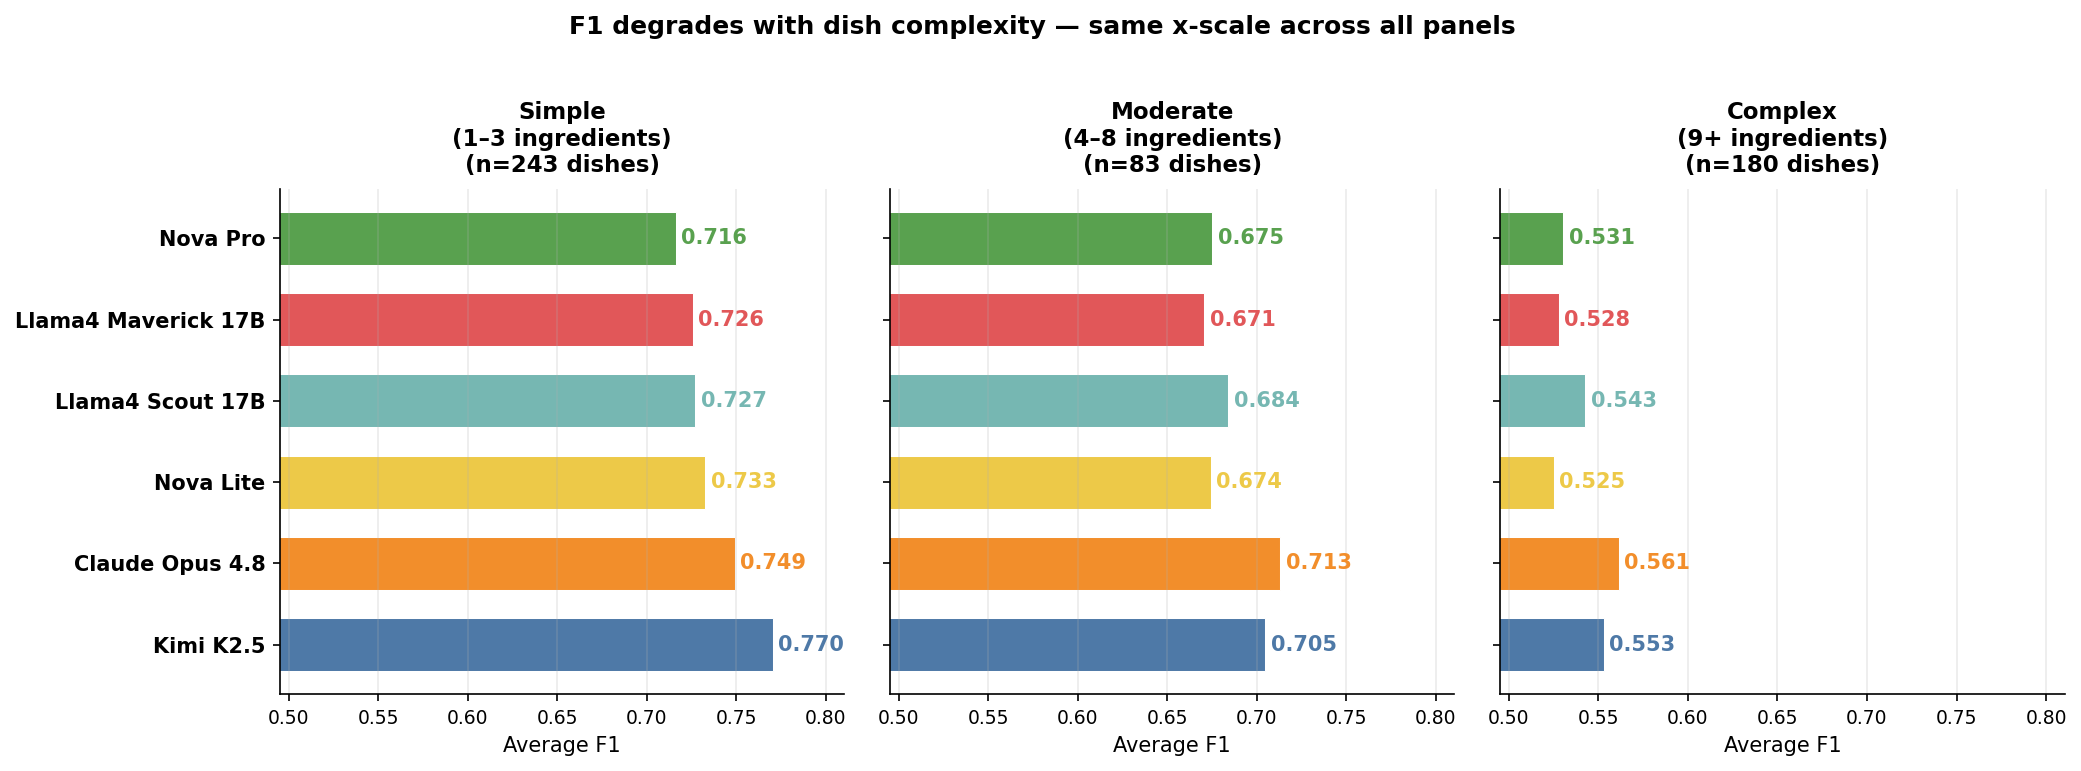
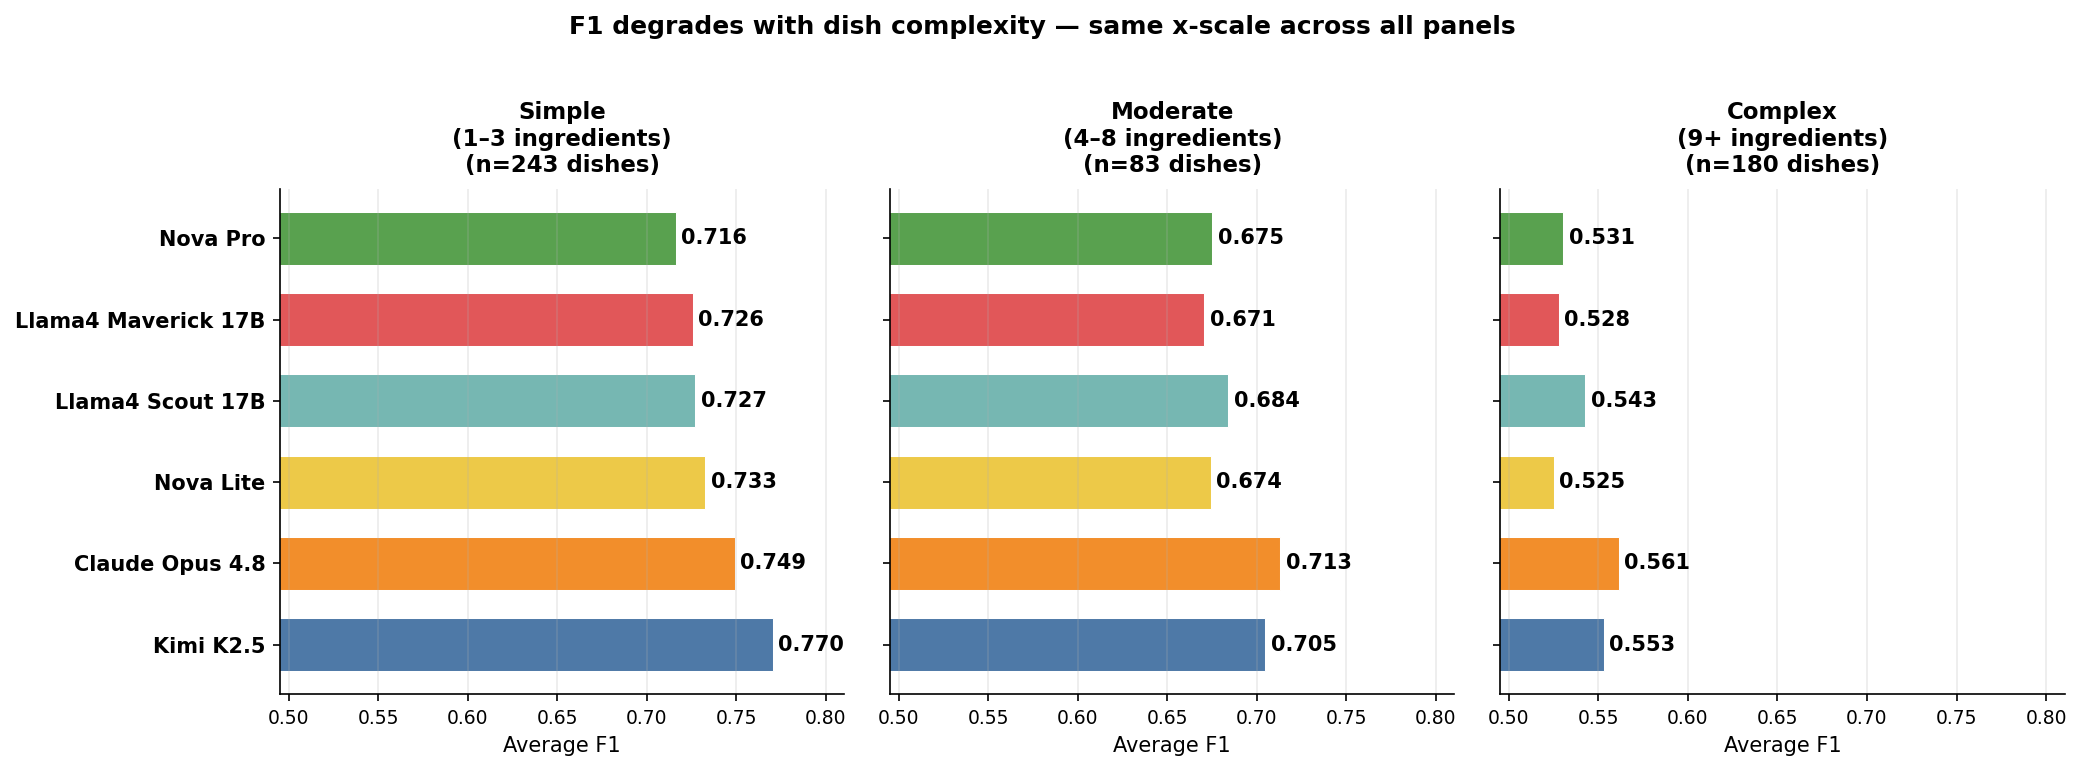
Fig5 value labels black; fig6 colors darkened
fig5 (D3 + matplotlib): F1 value labels at bar ends were in model
color — changed to black (#111827 / black)

fig6 (D3 + matplotlib): vivid green/red/blue/amber swapped for
dark muted variants:
  #059669 → #065F46  (emerald → dark emerald)
  #DC2626 → #7F1D1D  (red → dark crimson)
  #1D4ED8 → #1E3A8A  (blue → navy)
  #D97706 → #92400E  (amber → dark amber-brown)

diff --git a/eval/plots/fig05_complexity.html b/eval/plots/fig05_complexity.html
@@ -70,11 +70,11 @@ panels.forEach((panel,pi)=>{
    .attr("width",m=>x(m.f1)).attr("height",y.bandwidth())
    .attr("fill",m=>m.color).attr("rx",4);
 
-  // F1 label at bar right — bold, model color
+  // F1 label at bar right — bold, black
   g.selectAll(".lbl").data(panel.models).join("text")
    .attr("x",m=>x(m.f1)+9).attr("y",m=>y(m.model)+y.bandwidth()/2)
    .attr("dy","0.35em").attr("font-size",13).attr("font-weight","800")
-   .attr("fill",m=>m.color).text(m=>m.f1.toFixed(3));
+   .attr("fill","#111827").text(m=>m.f1.toFixed(3));
 
   // Y axis: model names in black
   const yAx=g.append("g").call(d3.axisLeft(y).tickSize(0).tickPadding(10));

diff --git a/eval/plots/fig06_buckets.html b/eval/plots/fig06_buckets.html
@@ -27,8 +27,8 @@ text{font-family:'Inter',system-ui,sans-serif}
 </head>
 <body><script>
 
-const data = [{"model": "Llama4 Maverick", "segs": [{"label": "Perfect (100%)", "count": 336, "pct": 66.4, "color": "#059669"}, {"label": "Good (75\u201399%)", "count": 53, "pct": 10.5, "color": "#1D4ED8"}, {"label": "Fair (50\u201374%)", "count": 71, "pct": 14.0, "color": "#D97706"}, {"label": "Poor  (<50%)", "count": 46, "pct": 9.1, "color": "#DC2626"}], "perfect_pct": 66.4}, {"model": "Kimi K2.5", "segs": [{"label": "Perfect (100%)", "count": 333, "pct": 65.8, "color": "#059669"}, {"label": "Good (75\u201399%)", "count": 65, "pct": 12.8, "color": "#1D4ED8"}, {"label": "Fair (50\u201374%)", "count": 63, "pct": 12.5, "color": "#D97706"}, {"label": "Poor  (<50%)", "count": 45, "pct": 8.9, "color": "#DC2626"}], "perfect_pct": 65.8}, {"model": "Nova Lite", "segs": [{"label": "Perfect (100%)", "count": 330, "pct": 65.2, "color": "#059669"}, {"label": "Good (75\u201399%)", "count": 54, "pct": 10.7, "color": "#1D4ED8"}, {"label": "Fair (50\u201374%)", "count": 68, "pct": 13.4, "color": "#D97706"}, {"label": "Poor  (<50%)", "count": 54, "pct": 10.7, "color": "#DC2626"}], "perfect_pct": 65.2}, {"model": "Llama4 Scout", "segs": [{"label": "Perfect (100%)", "count": 328, "pct": 64.7, "color": "#059669"}, {"label": "Good (75\u201399%)", "count": 58, "pct": 11.4, "color": "#1D4ED8"}, {"label": "Fair (50\u201374%)", "count": 77, "pct": 15.2, "color": "#D97706"}, {"label": "Poor  (<50%)", "count": 44, "pct": 8.7, "color": "#DC2626"}], "perfect_pct": 64.7}, {"model": "Nova Pro", "segs": [{"label": "Perfect (100%)", "count": 312, "pct": 61.5, "color": "#059669"}, {"label": "Good (75\u201399%)", "count": 58, "pct": 11.4, "color": "#1D4ED8"}, {"label": "Fair (50\u201374%)", "count": 84, "pct": 16.6, "color": "#D97706"}, {"label": "Poor  (<50%)", "count": 53, "pct": 10.5, "color": "#DC2626"}], "perfect_pct": 61.5}, {"model": "Claude Opus 4.8", "segs": [{"label": "Perfect (100%)", "count": 294, "pct": 58.0, "color": "#059669"}, {"label": "Good (75\u201399%)", "count": 86, "pct": 17.0, "color": "#1D4ED8"}, {"label": "Fair (50\u201374%)", "count": 80, "pct": 15.8, "color": "#D97706"}, {"label": "Poor  (<50%)", "count": 47, "pct": 9.3, "color": "#DC2626"}], "perfect_pct": 58.0}];
-const BUCKETS = [{"label": "Perfect (100%)", "color": "#059669"}, {"label": "Good (75\u201399%)", "color": "#1D4ED8"}, {"label": "Fair (50\u201374%)", "color": "#D97706"}, {"label": "Poor  (<50%)", "color": "#DC2626"}];
+const data = [{"model": "Llama4 Maverick", "segs": [{"label": "Perfect (100%)", "count": 336, "pct": 66.4, "color": "#065F46"}, {"label": "Good (75\u201399%)", "count": 53, "pct": 10.5, "color": "#1E3A8A"}, {"label": "Fair (50\u201374%)", "count": 71, "pct": 14.0, "color": "#92400E"}, {"label": "Poor  (<50%)", "count": 46, "pct": 9.1, "color": "#7F1D1D"}], "perfect_pct": 66.4}, {"model": "Kimi K2.5", "segs": [{"label": "Perfect (100%)", "count": 333, "pct": 65.8, "color": "#065F46"}, {"label": "Good (75\u201399%)", "count": 65, "pct": 12.8, "color": "#1E3A8A"}, {"label": "Fair (50\u201374%)", "count": 63, "pct": 12.5, "color": "#92400E"}, {"label": "Poor  (<50%)", "count": 45, "pct": 8.9, "color": "#7F1D1D"}], "perfect_pct": 65.8}, {"model": "Nova Lite", "segs": [{"label": "Perfect (100%)", "count": 330, "pct": 65.2, "color": "#065F46"}, {"label": "Good (75\u201399%)", "count": 54, "pct": 10.7, "color": "#1E3A8A"}, {"label": "Fair (50\u201374%)", "count": 68, "pct": 13.4, "color": "#92400E"}, {"label": "Poor  (<50%)", "count": 54, "pct": 10.7, "color": "#7F1D1D"}], "perfect_pct": 65.2}, {"model": "Llama4 Scout", "segs": [{"label": "Perfect (100%)", "count": 328, "pct": 64.7, "color": "#065F46"}, {"label": "Good (75\u201399%)", "count": 58, "pct": 11.4, "color": "#1E3A8A"}, {"label": "Fair (50\u201374%)", "count": 77, "pct": 15.2, "color": "#92400E"}, {"label": "Poor  (<50%)", "count": 44, "pct": 8.7, "color": "#7F1D1D"}], "perfect_pct": 64.7}, {"model": "Nova Pro", "segs": [{"label": "Perfect (100%)", "count": 312, "pct": 61.5, "color": "#065F46"}, {"label": "Good (75\u201399%)", "count": 58, "pct": 11.4, "color": "#1E3A8A"}, {"label": "Fair (50\u201374%)", "count": 84, "pct": 16.6, "color": "#92400E"}, {"label": "Poor  (<50%)", "count": 53, "pct": 10.5, "color": "#7F1D1D"}], "perfect_pct": 61.5}, {"model": "Claude Opus 4.8", "segs": [{"label": "Perfect (100%)", "count": 294, "pct": 58.0, "color": "#065F46"}, {"label": "Good (75\u201399%)", "count": 86, "pct": 17.0, "color": "#1E3A8A"}, {"label": "Fair (50\u201374%)", "count": 80, "pct": 15.8, "color": "#92400E"}, {"label": "Poor  (<50%)", "count": 47, "pct": 9.3, "color": "#7F1D1D"}], "perfect_pct": 58.0}];
+const BUCKETS = [{"label": "Perfect (100%)", "color": "#065F46"}, {"label": "Good (75\u201399%)", "color": "#1E3A8A"}, {"label": "Fair (50\u201374%)", "color": "#92400E"}, {"label": "Poor  (<50%)", "color": "#7F1D1D"}];
 
 const W=600, rowH=68, H=data.length*rowH;
 const m={t:130,r:44,b:56,l:162};

diff --git a/eval/plots/fig03_missed.html b/eval/plots/fig03_missed.html
@@ -28,7 +28,7 @@ text{font-family:'Inter',system-ui,sans-serif}
 <body><script>
 
 const data  = [{"ing": "olive oil", "count": 1044}, {"ing": "salt", "count": 737}, {"ing": "pepper", "count": 428}, {"ing": "garlic", "count": 406}, {"ing": "mustard", "count": 375}, {"ing": "vinegar", "count": 334}, {"ing": "arugula", "count": 245}, {"ing": "onions", "count": 234}, {"ing": "lemon juice", "count": 232}, {"ing": "shallots", "count": 217}, {"ing": "wheat berry", "count": 215}, {"ing": "parsley", "count": 201}, {"ing": "thyme", "count": 201}, {"ing": "mixed greens", "count": 197}, {"ing": "cucumbers", "count": 165}, {"ing": "basil", "count": 160}, {"ing": "chard", "count": 159}, {"ing": "rosemary", "count": 153}, {"ing": "jalapenos", "count": 127}, {"ing": "spinach (raw)", "count": 120}, {"ing": "mushroom", "count": 118}, {"ing": "bok choy", "count": 116}, {"ing": "pork", "count": 110}, {"ing": "carrot", "count": 106}, {"ing": "fish", "count": 101}];
-const INVIS = new Set(["ginger", "garlic", "pepper", "mustard", "flour", "shallots", "thyme", "basil", "onions", "oregano", "salt", "rosemary", "lemon juice", "paprika", "vinegar", "white wine", "cinnamon", "olive oil", "cumin"]);
+const INVIS = new Set(["thyme", "olive oil", "lemon juice", "cumin", "oregano", "vinegar", "cinnamon", "ginger", "flour", "paprika", "white wine", "basil", "shallots", "onions", "mustard", "garlic", "salt", "pepper", "rosemary"]);
 const W=520, rowH=28, H=data.length*rowH;
 const m={t:110,r:72,b:52,l:148};
 

diff --git a/eval/plot_analysis.py b/eval/plot_analysis.py
@@ -237,11 +237,11 @@ for bi, (ax, (lo, hi, label)) in enumerate(zip(axes, BUCK5)):
 
     bars = ax.barh(y_pos, f1_vals, color=scolors, height=0.65, edgecolor="white", linewidth=0.5)
 
-    # Value labels at bar end, bold, model color
-    for bar, val, col in zip(bars, f1_vals, scolors):
+    # Value labels at bar end, bold, black
+    for bar, val in zip(bars, f1_vals):
         if not math.isnan(val):
             ax.text(val + 0.003, bar.get_y() + bar.get_height() / 2,
-                    f"{val:.3f}", va="center", fontsize=10, fontweight="bold", color=col)
+                    f"{val:.3f}", va="center", fontsize=10, fontweight="bold", color="black")
 
     ax.set_yticks(y_pos)
     if bi == 0:
@@ -287,17 +287,17 @@ fig, ax = plt.subplots(figsize=(10, 5))
 bar_h = 0.35
 # Green bars — all guesses correct
 ax.barh(y_pos + bar_h / 2, [r["all_correct"]  for r in model_rows6],
-        height=bar_h, color="#059669", label="No wrong guesses (100% accuracy)")
+        height=bar_h, color="#065F46", label="No wrong guesses (100% accuracy)")
 # Red bars — zero guesses correct
 ax.barh(y_pos - bar_h / 2, [r["zero_correct"] for r in model_rows6],
-        height=bar_h, color="#DC2626", label="Zero correct  (0% accuracy)")
+        height=bar_h, color="#7F1D1D", label="Zero correct  (0% accuracy)")
 
 # Value labels
 for i, r in enumerate(model_rows6):
     ax.text(r["all_correct"]  + 0.5, i + bar_h / 2, f"{r['all_correct']:.1f}%",
-            va="center", fontsize=9, fontweight="bold", color="#059669")
+            va="center", fontsize=9, fontweight="bold", color="#065F46")
     ax.text(r["zero_correct"] + 0.5, i - bar_h / 2, f"{r['zero_correct']:.1f}%",
-            va="center", fontsize=9, fontweight="bold", color="#DC2626")
+            va="center", fontsize=9, fontweight="bold", color="#7F1D1D")
 
 ax.set_yticks(y_pos)
 ax.set_yticklabels([r["name"] for r in model_rows6], fontsize=10, fontweight="bold")

diff --git a/eval/gen_d3_plots.py b/eval/gen_d3_plots.py
@@ -505,11 +505,11 @@ panels.forEach((panel,pi)=>{{
    .attr("width",m=>x(m.f1)).attr("height",y.bandwidth())
    .attr("fill",m=>m.color).attr("rx",4);
 
-  // F1 label at bar right — bold, model color
+  // F1 label at bar right — bold, black
   g.selectAll(".lbl").data(panel.models).join("text")
    .attr("x",m=>x(m.f1)+9).attr("y",m=>y(m.model)+y.bandwidth()/2)
    .attr("dy","0.35em").attr("font-size",13).attr("font-weight","800")
-   .attr("fill",m=>m.color).text(m=>m.f1.toFixed(3));
+   .attr("fill","#111827").text(m=>m.f1.toFixed(3));
 
   // Y axis: model names in black
   const yAx=g.append("g").call(d3.axisLeft(y).tickSize(0).tickPadding(10));
@@ -546,10 +546,10 @@ print("✓ fig05_complexity.html")
 #   % label inside each segment if wide enough.
 # ════════════════════════════════════════════════════════════════════════
 BUCKETS6 = [
-    ("Perfect (100%)",  100, 100, "#059669"),
-    ("Good (75–99%)",    75,  99, "#1D4ED8"),
-    ("Fair (50–74%)",    50,  74, "#D97706"),
-    ("Poor  (<50%)",      0,  49, "#DC2626"),
+    ("Perfect (100%)",  100, 100, "#065F46"),  # dark emerald
+    ("Good (75–99%)",    75,  99, "#1E3A8A"),  # dark navy
+    ("Fair (50–74%)",    50,  74, "#92400E"),  # dark amber-brown
+    ("Poor  (<50%)",      0,  49, "#7F1D1D"),  # dark crimson
 ]
 
 fig6 = []